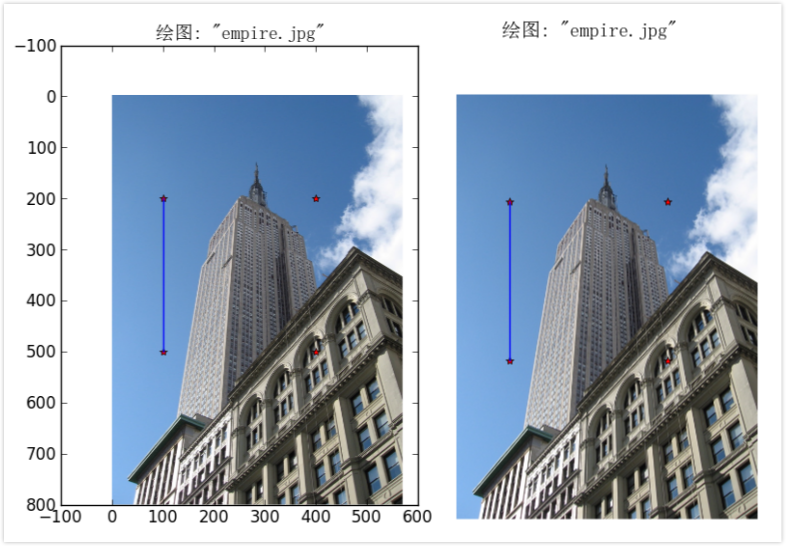
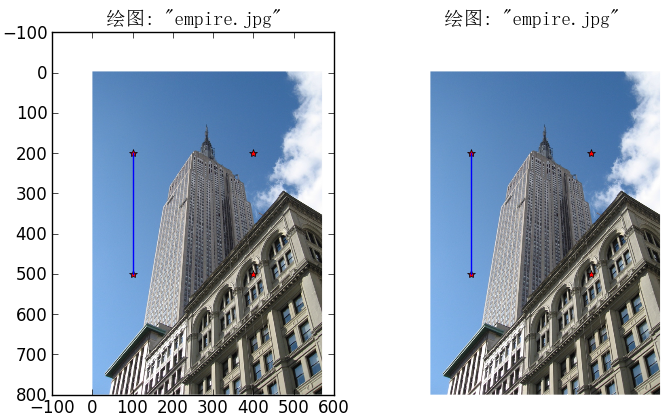
update content in ch01

diff --git a/chapter1.md b/chapter1.md
@@ -168,52 +168,87 @@ from matplotlib.font_manager import FontProperties
 font = FontProperties(fname=r"c:\windows\fonts\SimSun.ttc", size=14)
 
 im = array(Image.open('../data/empire.jpg'))
+figure()
 
+# 画有坐标轴的
+subplot(121)
 imshow(im)
-
 x = [100, 100, 400, 400]
 y = [200, 500, 200, 500]
 plot(x, y, 'r*')
-
 plot(x[:2], y[:2])
-
-#axis('off')  #显示坐标轴
-
 title(u'绘图: "empire.jpg"', fontproperties=font)
+
+# 不显示坐标轴
+subplot(122)
+imshow(im)
+x = [100, 100, 400, 400]
+y = [200, 500, 200, 500]
+plot(x, y, 'r*')
+plot(x[:2], y[:2])
+axis('off')  #显示坐标轴
+title(u'绘图: "empire.jpg"', fontproperties=font)
+
 show()
 ```
 运行上面代码，即可得原书P005中 Figure 1-2中左边的结果。去掉上面代码中坐标轴的注释，即可得 Figure 1-2中右边的结果。运行结果如下：
 
 ![ch01_P005_fig1-2_matplot](assets/images/figures/ch01/ch01_P005_fig1-2_matplot.png)
 
-运行下面代码，便可以得到下面的图。
+<h3 id="sec-1-2-2">1.2.2 图像轮廓和直方图</h3>
+
+下面我们看两个特别的例子：图像轮廓线和图线等高线。在画图像轮廓前需要转换为灰度图像，因为轮廓需要获取每个坐标[x,y]位置的像素值。下面是画图像轮廓和直方图的代码：
 
 ```python
-# -*- coding: utf-8 -*-
-"""
-Function:  figure 1-3
-    Examples of visualizing image contours and plotting image histograms with Matplotlib
-Date: 2014-02-24
-"""
+ # -*- coding: utf-8 -*-
 from PIL import Image
 from pylab import *
 
+# 添加中文字体支持
+from matplotlib.font_manager import FontProperties
+font = FontProperties(fname=r"c:\windows\fonts\SimSun.ttc", size=14)
 im = array(Image.open('../data/empire.jpg').convert('L'))  # 打开图像，并转成灰度图像
 
 figure()
+subplot(121)
 gray()
 contour(im, origin='image')
 axis('equal')
 axis('off')
+title(u'图像轮廓', fontproperties=font)
 
-figure()
+subplot(122)
 hist(im.flatten(), 128)
+title(u'图像直方图', fontproperties=font)
+plt.xlim([0,260])
+plt.ylim([0,11000])
+
 show()
 ```
 运行上面代码，可以得到书中的图1-3所示的结果:
 ![P006-Fig1-3](assets/images/figures/ch01/P006-Fig1-3.png)
 
-<h2 id="sec-1-1">1.2 灰度变换</h2>
+<h3 id="sec-1-2-4">1.2.4 交互注释</h3>
+
+有时，用户需要和应用进行交互，比如在图像中用点做标识，或者在一些训练数据中进行注释。PyLab提供了一个很简洁好用的函数ginput(),它可以完成该任务，下面是一个演示交互注释的简短示例：
+
+```python
+from PIL import Image
+from pylab import *
+
+im = array(Image.open('../data/empire.jpg'))
+imshow(im)
+print 'Please click 3 points'
+imshow(im)
+x = ginput(3)
+print 'You clicked:', x
+
+show()
+```
+上面代码先读取empire.jpg图像，显示读取的图像，然后用ginput()交互注释，这里设置的交互注释数据点设置为3个，用户在注释后，会将注释点的坐标打印出来。
+
+<h2 id="sec-1-3">1.3 NumPy库</h2>
+
 下面代码是显示原书第9页中figure1-5的例子：
 
 ```python
